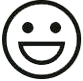
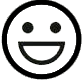
append emoji support

Changed region(s): [[0.0, 0.0, 0.988, 0.9877]]

diff --git a/mainwindow.cpp b/mainwindow.cpp
@@ -12,7 +12,7 @@ MainWindow::MainWindow(QWidget *parent)
 {
     ui->setupUi(this);
     this->setWindowTitle("Wechat");
-
+    connect(ui->configUi, &ConfigWidget::messageSend, this, &MainWindow::appendMessage);
     bool isSelfSend = true;
     for (int i = 0; i < 20 ; i++) {
         Bubble *bubbleWidget =  new Bubble();
@@ -27,9 +27,10 @@ MainWindow::MainWindow(QWidget *parent)
         }
 
         else {
-            bubbleWidget->setMessage("一二三四五六七八九十十一十二十三十四十五十六This你好 is a long text that should automatically wrap to the next line when it reaches the edge of the QLabel. It demonstrates how QLabel can handle word wrapping.");
+            bubbleWidget->setMessage("一二三四五六七八九十十一十二十三十四十五十六This[破涕为笑]你好 is a long text that should automatically wrap to the next line when it reaches the edge of the QLabel. It demonstrates how QLabel can handle word wrapping.");
             bubbleWidget->setIcon("/Users/xiehui/Pictures/2");
-        }ui->messageWidget->layout()->addWidget(bubbleWidget);
+        }
+        ui->messageWidget->layout()->addWidget(bubbleWidget);
     }
     ui->messageWidget->resize(this->width(), this->height());
 }
@@ -37,5 +38,13 @@ MainWindow::MainWindow(QWidget *parent)
 MainWindow::~MainWindow()
 {
     delete ui;
+}
+
+void MainWindow::appendMessage(const QString &message, bool isSelf)
+{
+    Bubble * messageBubble = new Bubble();
+    messageBubble->setSelfSend(isSelf);
+    messageBubble->setMessage(message);
+    ui->messageWidget->layout()->addWidget(messageBubble);
 }
 

diff --git a/messagewidget.cpp b/messagewidget.cpp
@@ -22,7 +22,9 @@ void MessageWidget::paintEvent(QPaintEvent *event) {
         painter.setPen("#000000");
 
 //        // 设置字体和字体大小
-        QFont font = QFont("Robot", 13, QFont::ExtraLight); // 获取当前字体
+//        QFont font = QFont("Robot", 13, QFont::ExtraLight); // 获取当前字体
+        QFont font = QFont("Segoe UI Emoji", 14, QFont::Thin); // 获取当前字体
+
         painter.setFont(font); // 应用新的字体设置
 
         // 应用qss

diff --git a/configwidget.h b/configwidget.h
@@ -15,8 +15,19 @@ public:
     explicit ConfigWidget(QWidget *parent = nullptr);
     ~ConfigWidget();
 
+private slots:
+    void on_pushButton_3_clicked();
+
+    void on_appendMessagePushButton_clicked();
+
+Q_SIGNALS:
+    void messageSend(const QString &message, bool isSelf = true);
 private:
     Ui::ConfigWidget *ui;
+    QString m_selfIcon;
+    QString m_youIcon;
+    QString m_backgroundImage;
+
 };
 
 #endif // CONFIGWIDGET_H

diff --git a/config.h b/config.h
@@ -7,7 +7,7 @@ static QString normalWechatColor = "#a9ea7a";
 static QString whiteWechatColor = "#ffffff";
 static QString brankWechatColor = "#2c2c2c";
 static int messageLeftMargin = 10;
-static int messageTopMargin = 20;
+static int messageTopMargin = 23;
 static int messageMaxWidth = 335;
 static int messageMinWidth = 20;
 static int messageMinHeight = 35;

diff --git a/bubble.cpp b/bubble.cpp
@@ -31,6 +31,7 @@ void Bubble::setSelfSend(bool isSelf)
     ui->youHeadIcon->setVisible(!m_isSelf);
     ui->youTriangleWidget->setMySend(m_isSelf);
     ui->messageWidget->setSelfSend(m_isSelf);
+    ui->widget->layout()->setAlignment(ui->messageWidget, isSelf ? Qt::AlignRight : Qt::AlignLeft);
 }
 
 void Bubble::setMessage(const QString &message)

diff --git a/configwidget.cpp b/configwidget.cpp
@@ -12,3 +12,14 @@ ConfigWidget::~ConfigWidget()
 {
     delete ui;
 }
+
+void ConfigWidget::on_pushButton_3_clicked()
+{
+
+}
+
+void ConfigWidget::on_appendMessagePushButton_clicked()
+{
+   Q_EMIT messageSend(ui->lineEdit->text());
+}
+

diff --git a/mainwindow.h b/mainwindow.h
@@ -15,6 +15,9 @@ public:
     MainWindow(QWidget *parent = nullptr);
     ~MainWindow();
 
+public Q_SLOTS:
+    void appendMessage(const QString &message ,bool isSelf = true);
+
 private:
     Ui::MainWindow *ui;
 };
